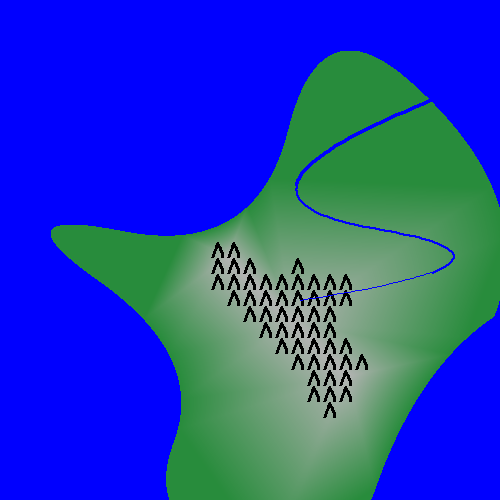
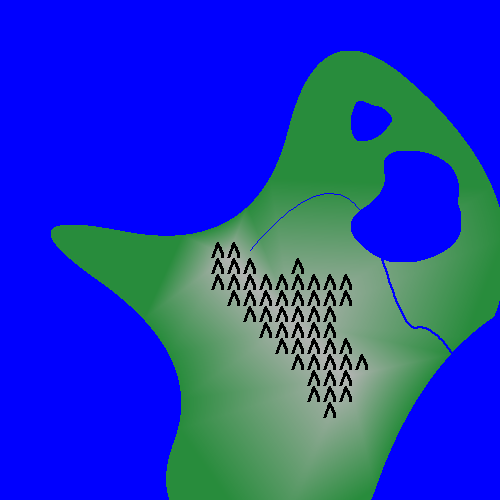
jeziora

diff --git a/python/World.py b/python/World.py
@@ -227,6 +227,8 @@ class World:
                 self.paste_mountain_stamp_onto_map(land=land,position=square)
         for river in self.rivers:
             self.give_color_to_river_new_algo(river)
+        for lake in self.lakes:
+            self.paste_lake_onto_land(lake)
         hmap_scaled = self.scale_down_to_256(self.hmap)
         
         map_image = Image.new('P', (self.size[0],self.size[1]))
@@ -237,18 +239,31 @@ class World:
                 
 
                         
-    def give_color_to_lake(self,lake: Lake):
-        x_move = lake.start[0]
-        y_move = lake.start[1]
-        land_size_x = lake.height_map.shape[1]
-        land_size_y = lake.height_map.shape[0]
-        for (row,col),value in np.ndenumerate(lake.height_map):
-            y_index = int(self.size[0]//2-row-y_move+land_size_y//2)
-            x_index = int(col+x_move+self.size[1]//2-land_size_x//2)
-            if(y_index>0 and y_index<self.size[0] and x_index>0 and x_index<self.size[1]):
-                if value==0:
-                    self.pixels[int(self.size[0]//2-row-y_move+land_size_y//2)][int(col+x_move+self.size[1]//2-land_size_x//2)] = [0,180,255]
-                    self.hmap[int(self.size[0]//2-row-y_move+land_size_y//2)][int(col+x_move+self.size[1]//2-land_size_x//2)] = 0
+    def paste_lake_onto_land(self,lake: Lake):
+        map_height, map_width = self.hmap.shape
+        src_h, src_w = lake.height_map.shape
+        
+        center_x, center_y = map_width // 2, map_height // 2
+        top_left_x = int(lake.start[0] + center_x)
+        top_left_y = int(lake.start[1] + center_y)
+
+        dest_y_start = max(0, top_left_y)
+        dest_x_start = max(0, top_left_x)
+        dest_y_end = min(map_height, top_left_y + src_h)
+        dest_x_end = min(map_width, top_left_x + src_w)
+
+        src_y_start = max(0, -top_left_y)
+        src_x_start = max(0, -top_left_x)
+        src_y_end = src_y_start + (dest_y_end - dest_y_start)
+        src_x_end = src_x_start + (dest_x_end - dest_x_start)
+        
+        if (dest_y_end <= dest_y_start) or (dest_x_end <= dest_x_start):
+            return
+            
+        cut_land = lake.height_map[int(src_y_start):int(src_y_end), int(src_x_start):int(src_x_end)]
+        mask = ~np.isnan(cut_land)
+        self.hmap[int(dest_y_start):int(dest_y_end), int(dest_x_start):int(dest_x_end)][mask] = np.nan
+        
 
     # def give_color_to_river(self,river: River):
     #     # self.pixels[river.source[0],river.source[1]]=[0,180,255]
@@ -265,8 +280,8 @@ class World:
         map_rows, map_cols = self.hmap.shape
 
         for i in range(len(river.x) - 1):
-            x1, y1 = int(round(river.x[i])), int(round(river.y[i]))
-            x2, y2 = int(round(river.x[i+1])), int(round(river.y[i+1]))
+            x1, y1 = int(round(river.x[i])+self.hmap.shape[0]//2), int(round(river.y[i])+self.hmap.shape[1]//2)
+            x2, y2 = int(round(river.x[i+1])+self.hmap.shape[0]//2), int(round(river.y[i+1])+self.hmap.shape[1]//2)
 
             dx = abs(x2 - x1)
             dy = abs(y2 - y1)
